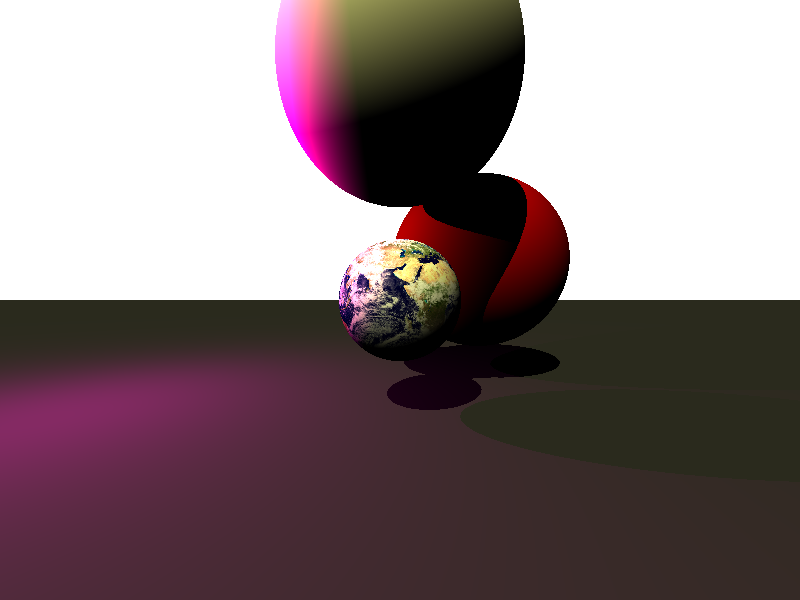
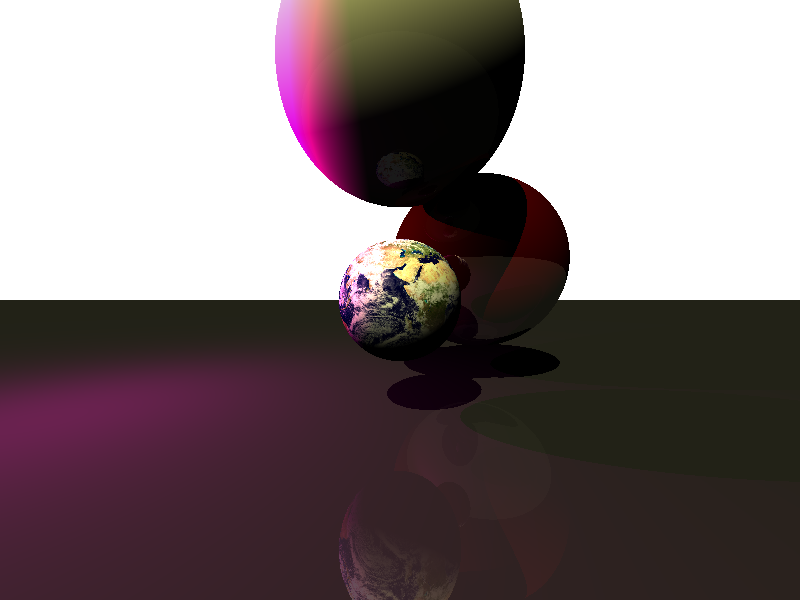
Add support for reflections

diff --git a/src/main.rs b/src/main.rs
@@ -12,7 +12,7 @@ mod point;
 mod vector;
 
 pub use color::Color;
-pub use material::{Material, Coloration, Texture, TextureCoords};
+pub use material::{Material, Coloration, Texture, TextureCoords, Surface};
 pub use point::Point;
 pub use vector::Vector3;
 
@@ -108,6 +108,7 @@ pub struct Scene {
     pub fov: f64,
     pub bodies: Vec<Body>,
     pub lights: Vec<Light>,
+    pub max_recursion_depth: u32,
 }
 
 impl Scene {
@@ -147,6 +148,13 @@ impl Ray {
                     z: -1.0, // Ray direction is straight into image
                 }
                 .normalize(),
+        }
+    }
+
+    pub fn create_reflection(normal: Vector3, incident: Vector3, intersection: Point) -> Ray {
+        Ray {
+            origin: intersection + (normal * SHADOW_BIAS),
+            direction: incident - (2.0 * incident.dot(&normal) * normal),
         }
     }
 }
@@ -300,15 +308,38 @@ impl<'a> Intersection<'a> {
     }
 }
 
-pub fn get_color(scene: &Scene, ray: &Ray, intersection: &Intersection) -> Color {
+pub fn get_color(scene: &Scene, ray: &Ray, intersection: &Intersection, depth: u32) -> Color {
     let hit_point = ray.origin + (ray.direction * intersection.distance);
     let body = intersection.body;
     let surface_normal = body.surface_normal(&hit_point);
 
-    let mut final_color = Color::black();
+    let mut final_color = shade_diffuse(scene, body, &hit_point, &surface_normal);
+
+    if let Surface::Reflecting { reflectivity } = body.material().surface {
+        let reflection_ray = Ray::create_reflection(surface_normal, ray.direction, hit_point);
+        final_color = final_color * (1.0 - reflectivity);
+        final_color = final_color + (cast_ray(scene, &reflection_ray, depth + 1) * reflectivity);
+    }
+
+    final_color
+}
+
+fn cast_ray(scene: &Scene, ray: &Ray, depth: u32) -> Color {
+    if depth >= scene.max_recursion_depth {
+        Color::black()
+    } else {
+        let intersection = scene.trace(&ray);
+        intersection
+            .map(|intersection| get_color(scene, &ray, &intersection, depth))
+            .unwrap_or(Color::black())
+    }
+}
+
+fn shade_diffuse(scene: &Scene, body: &Body, hit_point: &Point, surface_normal: &Vector3) -> Color {
     let texture_coords = body.texture_coords(&hit_point);
     let body_color = body.color(&texture_coords);
 
+    let mut final_color = Color::black();
     for light in &scene.lights {
         let direction_to_light = light.direction_from(&hit_point);
 
@@ -335,7 +366,7 @@ pub fn get_color(scene: &Scene, ray: &Ray, intersection: &Intersection) -> Color
 
         let light_power = (surface_normal.dot(&direction_to_light) as f32).max(0.0) *
                           light_intensity;
-        let light_reflected = intersection.body.albedo() / std::f32::consts::PI;
+        let light_reflected = body.albedo() / std::f32::consts::PI;
         let light_color = light.color() * light_power * light_reflected;
 
         final_color = final_color + (body_color * light_color);
@@ -349,7 +380,7 @@ pub fn render(scene: &Scene) -> ImageBuffer<Rgba<u8>, Vec<u8>> {
     for (x, y, pixel) in image.enumerate_pixels_mut() {
         let ray = Ray::create_prime(x, y, scene);
         if let Some(intersection) = scene.trace(&ray) {
-            *pixel = get_color(scene, &ray, &intersection).rgba();
+            *pixel = get_color(scene, &ray, &intersection, 0).rgba();
         }
     }
 
@@ -360,6 +391,7 @@ fn main() {
     let blue_marble = image::open(&Path::new("./textures/land_ocean_ice_cloud_2048.jpg")).expect("Could not load texture");
 
     let scene = Scene {
+        max_recursion_depth: 10,
         width: 800,
         height: 600,
         fov: 90.0,
@@ -381,6 +413,7 @@ fn main() {
                                                                            blue: 0.7,
                                                                        }),
                                          albedo: 0.15,
+                                         surface: Surface::Reflecting { reflectivity: 0.2 },
                                      },
                                  }),
                      Body::Sphere(Sphere {
@@ -397,6 +430,7 @@ fn main() {
                                                                               y_offset: 0.0,
                                                                           }),
                                           albedo: 0.6,
+                                          surface: Surface::Diffuse,
                                       },
                                   }),
                      Body::Sphere(Sphere {
@@ -413,6 +447,7 @@ fn main() {
                                                                             blue: 0.8,
                                                                         }),
                                           albedo: 0.5,
+                                          surface: Surface::Reflecting { reflectivity: 0.1 },
                                       },
                                   }),
                      Body::Sphere(Sphere {
@@ -429,6 +464,7 @@ fn main() {
                                                                             blue: 0.0,
                                                                         }),
                                           albedo: 0.35,
+                                          surface: Surface::Reflecting { reflectivity: 0.6 },
                                       },
                                   })],
         lights: vec![Light::Directional(DirectionalLight {
@@ -463,8 +499,7 @@ fn main() {
     let image = render(&scene);
     let end = PreciseTime::now();
 
-    println!("Took {} μseconds to render scene",
-             start.to(end).num_microseconds().unwrap());
+    println!("Took {} to render scene", start.to(end));
 
     image
         .save(&Path::new("test1.png"))

diff --git a/src/vector.rs b/src/vector.rs
@@ -1,4 +1,4 @@
-use std::ops::{Mul, Neg};
+use std::ops::{Add, Sub, Mul, Neg};
 
 #[derive(Copy, Clone, Debug)]
 pub struct Vector3 {
@@ -71,5 +71,45 @@ impl Mul<f64> for Vector3 {
             y: self.y * other,
             z: self.z * other,
         }
+    }
+}
+
+impl<'a> Mul<f64> for &'a Vector3 {
+    type Output = Vector3;
+
+    fn mul(self, other: f64) -> Vector3 {
+        (*self) * other
+    }
+}
+
+impl Add for Vector3 {
+    type Output = Vector3;
+
+    fn add(self, other: Vector3) -> Vector3 {
+        Vector3 {
+            x: self.x + other.x,
+            y: self.y + other.y,
+            z: self.z + other.z,
+        }
+    }
+}
+
+impl Sub for Vector3 {
+    type Output = Vector3;
+
+    fn sub(self, other: Vector3) -> Vector3 {
+        Vector3 {
+            x: self.x - other.x,
+            y: self.y - other.y,
+            z: self.z - other.z,
+        }
+    }
+}
+
+impl Mul<Vector3> for f64 {
+    type Output = Vector3;
+
+    fn mul(self, other: Vector3) -> Vector3 {
+        other * self
     }
 }

diff --git a/src/material.rs b/src/material.rs
@@ -7,6 +7,7 @@ use color::Color;
 pub struct Material {
     pub coloration: Coloration,
     pub albedo: f32,
+    pub surface: Surface,
 }
 
 #[derive(Clone, Copy, Debug)]
@@ -26,6 +27,12 @@ pub struct Texture {
     pub image: DynamicImage,
     pub x_offset: f32,
     pub y_offset: f32,
+}
+
+#[derive(Clone, Copy, Debug)]
+pub enum Surface {
+    Diffuse,
+    Reflecting { reflectivity: f32 },
 }
 
 impl Material {

diff --git a/src/point.rs b/src/point.rs
@@ -30,6 +30,14 @@ impl Add<Vector3> for Point {
     }
 }
 
+impl<'a> Add<Vector3> for &'a Point {
+    type Output = Point;
+
+    fn add(self, other: Vector3) -> Point {
+        (*self) + other
+    }
+}
+
 impl Sub<Point> for Point {
     type Output = Vector3;
 
